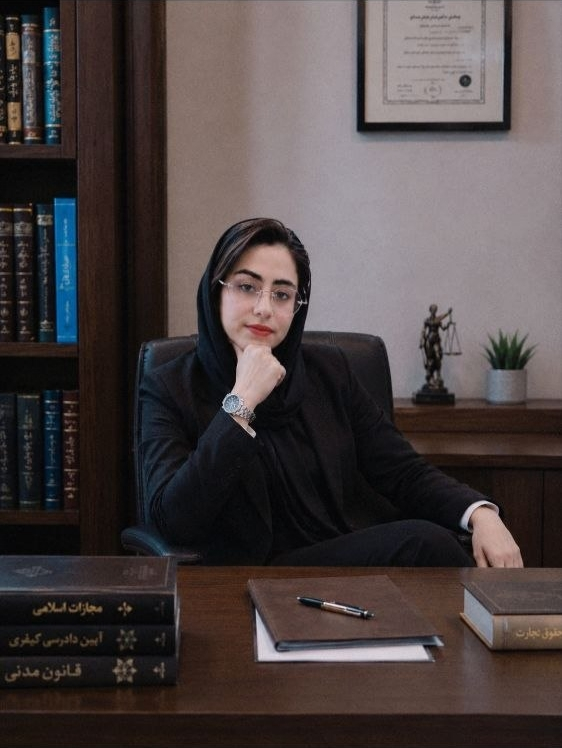
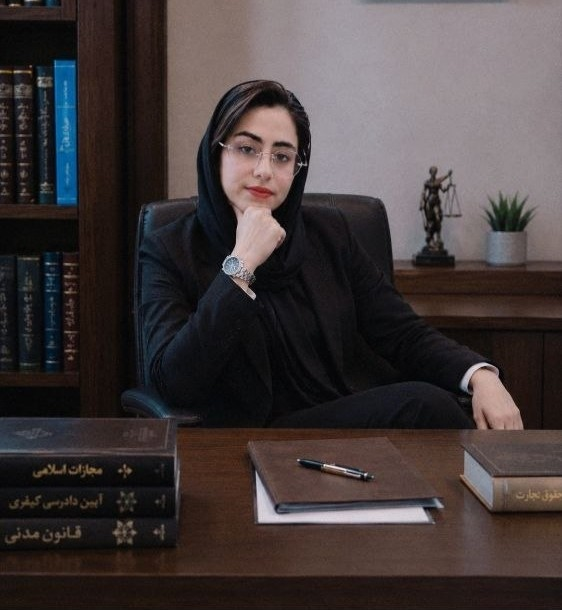
change some styles

diff --git a/components/index/Contact.tsx b/components/index/Contact.tsx
@@ -25,24 +25,26 @@ export default function Contact() {
             </p>
 
             <div className="space-y-4 pt-2">
-              <div className="flex items-start gap-4 p-4 rounded-[16px] bg-luxury-navy border border-luxury-gold/10 shadow-sm">
-                <MapPin className="w-6 h-6 text-luxury-gold shrink-0 mt-0.5" />
+              <div className="flex items-start gap-4 p-4 rounded-[16px] bg-luxury-goldLight border border-luxury-gold/15 shadow-sm">
+                <MapPin className="w-6 h-6 text-luxury-navy shrink-0 mt-0.5" />
                 <div>
-                  <h4 className="text-white font-bold text-sm">
+                  <h4 className="text-luxury-dark font-bold text-sm">
                     آدرس دفتر مرکزی:
                   </h4>
-                  <p className="text-gray-400 text-xs mt-1 leading-relaxed">
+                  <p className="text-luxury-blue font-bold text-xs mt-1 leading-relaxed">
                     سهروردی، مجتمع زیتون، طبقه اول
                   </p>
                 </div>
               </div>
 
-              <div className="flex items-center gap-4 p-4 rounded-[16px] bg-luxury-navy border border-luxury-gold/10 shadow-sm">
-                <Phone className="w-6 h-6 text-luxury-gold shrink-0" />
+              <div className="flex items-center gap-4 p-4 rounded-[16px] bg-luxury-goldLight border border-luxury-gold/15 shadow-sm">
+                <Phone className="w-6 h-6 text-luxury-navy shrink-0" />
                 <div>
-                  <h4 className="text-white font-bold text-sm">شماره تلفن :</h4>
+                  <h4 className="text-luxury-dark font-bold text-sm">
+                    شماره تلفن :
+                  </h4>
                   <p
-                    className="text-gray-400 text-xs mt-1 font-semibold tracking-wider"
+                    className="text-luxury-blue text-xs mt-1 font-semibold tracking-wider"
                     dir="ltr"
                   >
                     09217127727
@@ -50,13 +52,18 @@ export default function Contact() {
                 </div>
               </div>
 
-              <div className="flex items-center gap-4 p-4 rounded-[16px] bg-luxury-navy border border-luxury-gold/10 shadow-sm">
-                <Mail className="w-6 h-6 text-luxury-gold shrink-0" />
+              <div className="flex items-center gap-4 p-4 rounded-[16px] bg-luxury-goldLight border border-luxury-gold/15 shadow-sm">
+                
+                  <Mail className="w-6 h-6 text-luxury-navy shrink-0" />
+                
                 <div>
-                  <h4 className="text-white font-bold text-sm">
+                  <h4 className="text-luxury-dark font-bold text-sm">
                     پست الکترونیک:
                   </h4>
-                  <p className="text-gray-400 text-xs mt-1" dir="ltr">
+                  <p
+                    className="text-luxury-blue font-medium text-xs mt-1"
+                    dir="ltr"
+                  >
                     maryamtaheri1475@gmail.com
                   </p>
                 </div>
@@ -65,12 +72,12 @@ export default function Contact() {
           </div>
 
           {/* شبکههای اجتماعی لوکس - اصلاح ساختار گرید برای موبایل */}
-          <div className="lg:col-span-6 bg-gradient-to-br from-luxury-navy to-luxury-dark p-6 sm:p-8 rounded-[24px] border border-luxury-gold/20 shadow-xl space-y-6">
+          <div className="lg:col-span-6 bg-gradient-to-br from-luxury-gold/65 to-luxury-goldLight p-6 sm:p-8 rounded-[24px] border border-luxury-gold/20 shadow-xl space-y-6">
             <div className="text-center space-y-2">
-              <h3 className="text-xl font-bold text-white">
+              <h3 className="text-xl font-bold text-luxury-dark">
                 شبکههای اجتماعی و ارتباط آنلاین
               </h3>
-              <p className="text-gray-400 text-xs px-4">
+              <p className="text-gray-700 text-xs px-4">
                 برای مشاهده تحلیلهای حقوقی روزانه و ارتباط سریعتر، ما را دنبال
                 کنید
               </p>
@@ -83,7 +90,7 @@ export default function Contact() {
                 href="https://wa.me/message/LKIGZ6PEI7EZP1"
                 target="_blank"
                 rel="noopener noreferrer"
-                className="flex flex-col items-center justify-center p-4 rounded-[16px] bg-luxury-dark/60 border border-luxury-gold/10 hover:border-luxury-gold transition-all duration-300 group text-center"
+                className="flex flex-col items-center justify-center p-4 rounded-[16px] bg-luxury-navy border border-luxury-navy/10 hover:border-luxury-gold transition-all duration-300 group text-center"
               >
                 <AiOutlineWhatsApp className="w-7 h-7 text-luxury-gold mb-2 group-hover:scale-110 transition-transform" />
                 <span className="text-white text-xs font-semibold">واتساپ</span>
@@ -97,7 +104,7 @@ export default function Contact() {
                 href="https://www.linkedin.com/in/maryam-taheri-6a1930266"
                 target="_blank"
                 rel="noopener noreferrer"
-                className="flex flex-col items-center justify-center p-4 rounded-[16px] bg-luxury-dark/60 border border-luxury-gold/10 hover:border-luxury-gold transition-all duration-300 group text-center"
+                className="flex flex-col items-center justify-center p-4 rounded-[16px] bg-luxury-navy border border-luxury-gold/10 hover:border-luxury-gold transition-all duration-300 group text-center"
               >
                 <IoLogoLinkedin className="w-7 h-7 text-luxury-gold mb-2 group-hover:scale-110 transition-transform" />
                 <span className="text-white text-xs font-semibold">
@@ -113,7 +120,7 @@ export default function Contact() {
                 href="https://t.me/LawyerMaryamTaheri"
                 target="_blank"
                 rel="noopener noreferrer"
-                className="flex flex-col items-center justify-center p-4 rounded-[16px] bg-luxury-dark/60 border border-luxury-gold/10 hover:border-luxury-gold transition-all duration-300 group text-center"
+                className="flex flex-col items-center justify-center p-4 rounded-[16px] bg-luxury-navy border border-luxury-gold/10 hover:border-luxury-gold transition-all duration-300 group text-center"
               >
                 <Send className="w-7 h-7 text-luxury-gold mb-2 group-hover:scale-110 transition-transform" />
                 <span className="text-white text-xs font-semibold">تلگرام</span>
@@ -127,7 +134,7 @@ export default function Contact() {
                 href="https://t.me/LawyerMaryamTaheri"
                 target="_blank"
                 rel="noopener noreferrer"
-                className="flex flex-col items-center justify-center p-4 rounded-[16px] bg-luxury-dark/60 border border-luxury-gold/10 hover:border-luxury-gold transition-all duration-300 group text-center"
+                className="flex flex-col items-center justify-center p-4 rounded-[16px] bg-luxury-navy border border-luxury-gold/10 hover:border-luxury-gold transition-all duration-300 group text-center"
               >
                 <Globe className="w-7 h-7 text-luxury-gold mb-2 group-hover:scale-110 transition-transform" />
                 <span className="text-white text-xs font-semibold">ایتا</span>
@@ -137,8 +144,8 @@ export default function Contact() {
               </a>
             </div>
 
-            <div className="pt-4 border-t border-luxury-gold/10 text-center">
-              <span className="text-xs text-luxury-gold italic font-medium">
+            <div className="pt-4 border-t border-luxury-blue/10 text-center">
+              <span className="text-xs text-luxury-blue italic font-medium">
                 حق، گرفتنی است؛ با دانش و قانون در کنارتان هستیم.
               </span>
             </div>

diff --git a/components/index/Hero.tsx b/components/index/Hero.tsx
@@ -24,7 +24,7 @@ export default function Hero() {
                 className="object-cover grayscale group-hover:grayscale-0 hover:grayscale-0 transition-all duration-700 scale-105 group-hover:scale-100"
               />
             </div>
-            <div className="absolute bottom-6 -right-4 z-20 bg-luxury-navy/95 backdrop-blur-sm border border-luxury-gold p-4 rounded-[16px] shadow-xl min-w-[180px] sm:min-w-[200px]">
+            <div className="absolute bottom-6 -right-4 z-20 bg-luxury-navy/95 backdrop-blur-sm border border-luxury-gold/30 p-4 rounded-[16px] shadow-xl min-w-[180px] sm:min-w-[200px]">
               <h3 className="text-white font-bold text-base sm:text-lg">
                 مریم طاهری
               </h3>
@@ -42,7 +42,7 @@ export default function Hero() {
             <span>وکیل پایه یک دادگستری و مشاور حقوقی</span>
           </div>
 
-          <h1 className="text-3xl sm:text-4xl md:text-6xl font-black text-luxury-dark leading-tight">
+          <h1 className="text-3xl sm:text-4xl md:text-6xl font-black text-luxury-navy leading-tight">
             دفاع از حقوق شما، <br />
             <span className="text-transparent bg-clip-text bg-gradient-to-l from-luxury-gold via-luxury-goldLight to-luxury-gold">
               هنر و تخصص ماست

diff --git a/components/index/MyJob.tsx b/components/index/MyJob.tsx
@@ -57,7 +57,7 @@ export default function MyJob() {
           {areas.map((item, index) => (
             <div
               key={index}
-              className="group relative flex items-start p-5 md:p-6 bg-luxury-goldLight/75 rounded-[16px] border border-luxury-gold/10 shadow-[0_4px_20px_rgba(0,0,0,0.02)] hover:shadow-[0_8px_30px_rgba(212,175,55,0.1)] hover:-translate-y-1 transition-all duration-300 overflow-hidden cursor-default"
+              className="group relative flex items-start p-5 md:p-6 bg-luxury-goldLight rounded-[16px] border border-luxury-gold/10 shadow-[0_4px_20px_rgba(0,0,0,0.02)] hover:shadow-[0_8px_30px_rgba(212,175,55,0.1)] hover:-translate-y-1 transition-all duration-300 overflow-hidden cursor-default"
             >
               {/* خط طلایی کناری */}
               <div className="absolute inset-y-0 right-0 w-1 bg-luxury-gold scale-y-0 group-hover:scale-y-100 transition-transform duration-300 origin-bottom"></div>

diff --git a/components/index/Expertise.tsx b/components/index/Expertise.tsx
@@ -54,7 +54,7 @@ export default function Expertise() {
           {areas.map((item, index) => (
             <div
               key={index}
-              className={`group relative bg-luxury-goldLight/75 rounded-[20px] p-6 md:p-8 shadow-[0_4px_20px_rgb(0,0,0,0.04)] hover:shadow-[0_10px_40px_rgba(212,175,55,0.12)] transition-all duration-500 hover:-translate-y-2 border border-transparent hover:border-luxury-gold/20 flex flex-col h-full mt-6 md:mt-0 ${
+              className={`group relative bg-luxury-goldLight rounded-[20px] p-6 md:p-8 shadow-[0_4px_20px_rgb(0,0,0,0.04)] hover:shadow-[0_10px_40px_rgba(212,175,55,0.12)] transition-all duration-500 hover:-translate-y-2 border border-transparent hover:border-luxury-gold/20 flex flex-col h-full mt-6 md:mt-0 ${
                 index === 1 ? "md:translate-y-8" : ""
               }`}
             >

diff --git a/app/page.tsx b/app/page.tsx
@@ -24,7 +24,7 @@ export default function LawyerLanding() {
       {/* فوتر ساده و شیک */}
       <footer className="bg-luxury-dark border-t border-luxury-gold/5 py-8 text-center text-xs text-gray-500">
         <p>
-          تمامی حقوق مادی و معنوی این وبسایت متعلق به دفتر وکالت فوق میباشد.
+          تمامی حقوق مادی و معنوی این وبسایت متعلق به دفتر وکالت فوق میباشد.Ⓒ 2026
         </p>
       </footer>
     </div>
